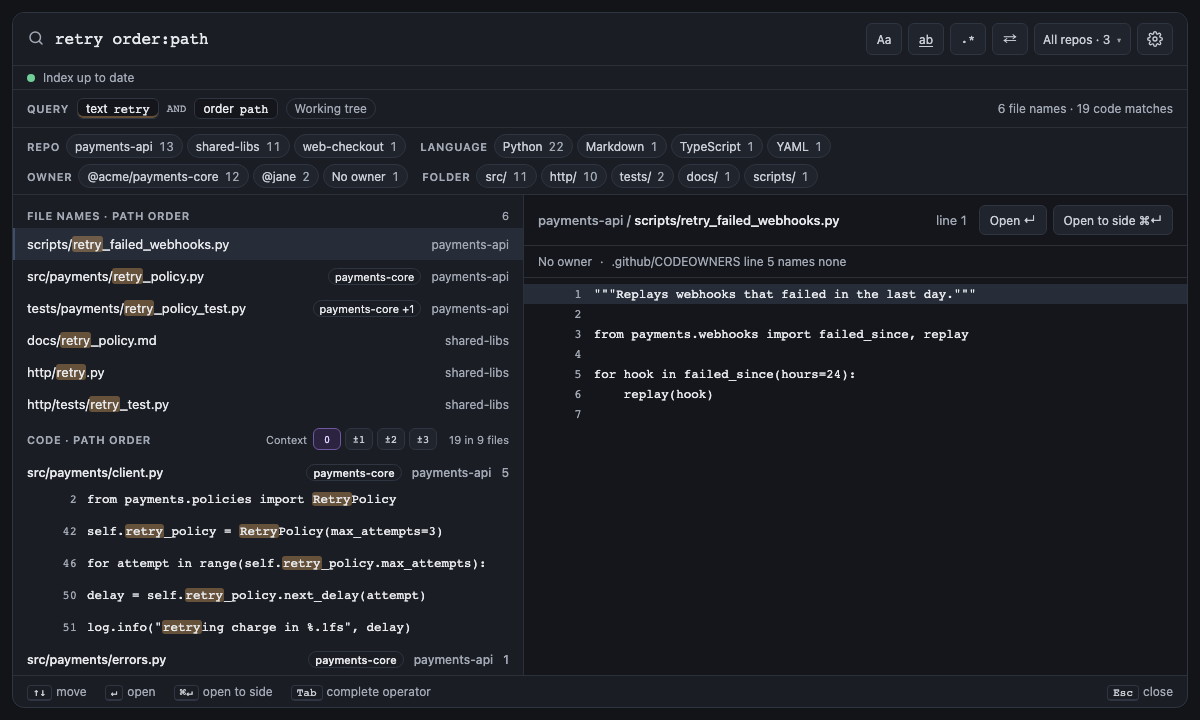
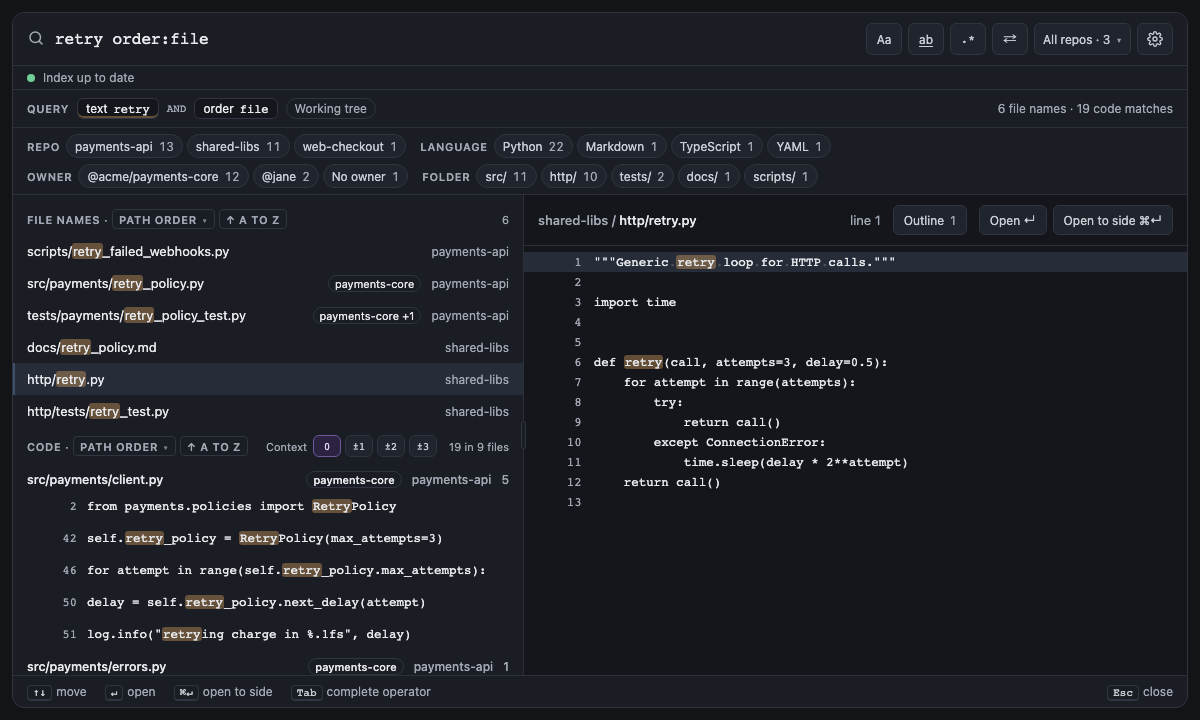
docs(dev): retake mocks 24 and 25's built screenshots with the order menu, and order:file

diff --git a/docs/dev/progress.md b/docs/dev/progress.md
@@ -247,7 +247,7 @@ Jason Kim and Marta Ruiz, and one uncommitted edit:
 | 22 | `timeout lang:` | [other-values.png](proof/other-values.png) |
 | 23 | `author:jane retry` | [words-in-messages.png](proof/words-in-messages.png) |
 | 24 | `retry` | [ranked-results.png](proof/ranked-results.png) |
-| 25 | `retry order:path` | [path-order.png](proof/path-order.png) |
+| 25 | `retry order:file` | [path-order.png](proof/path-order.png) |
 | 26 | `retry is:test` | [test-files.png](proof/test-files.png) |
 | 27 | `author:jane is:test retry` | [test-history.png](proof/test-history.png) |
 | 28 | `word:yes retry` | [whole-words.png](proof/whole-words.png) |
@@ -615,7 +615,7 @@ hides commits that only change excluded files; Replace leaves them alone and cou
 Mock 54 (`recent-order`): the order name in each results heading is a menu of best match, path order and recently
 changed (`webview/src/render/order.ts`), with an arrow beside it for the direction: newest or oldest first, A to Z or
 Z to A, and greyed out for best match, which runs one way. A pick saves `spelunk.results.order`, which takes `best`,
-`path`, `path:desc`, `recent` and `recent:asc` (and `path:asc`, `recent:desc`), or rewrites an `order:` typed in the
+`file`, `file:desc`, `recent` and `recent:asc` (and `file:asc`, `recent:desc`), or rewrites an `order:` typed in the
 query, whose suggestions list each direction on its own. Recently changed sorts files by when they last changed (the
 save time of a file with uncommitted edits or outside Git, otherwise its newest commit), with no extra Git work per
 search: best match already looks the commit up. Ties go to best match, a file with no commit in the history window
